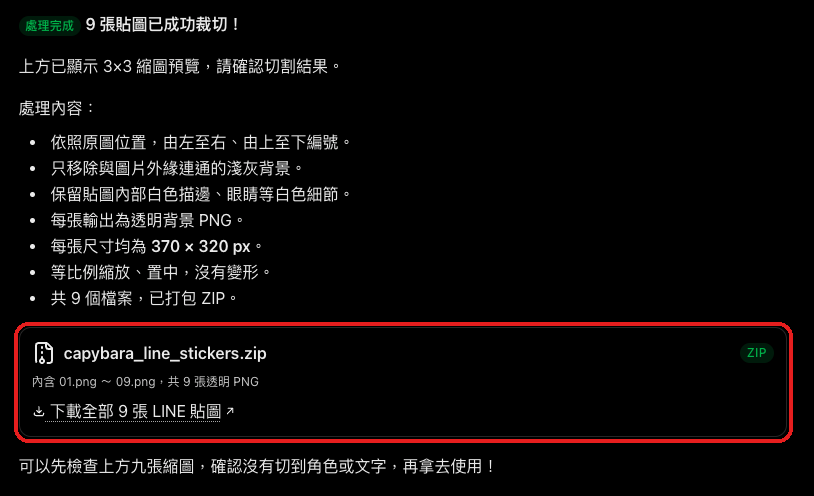
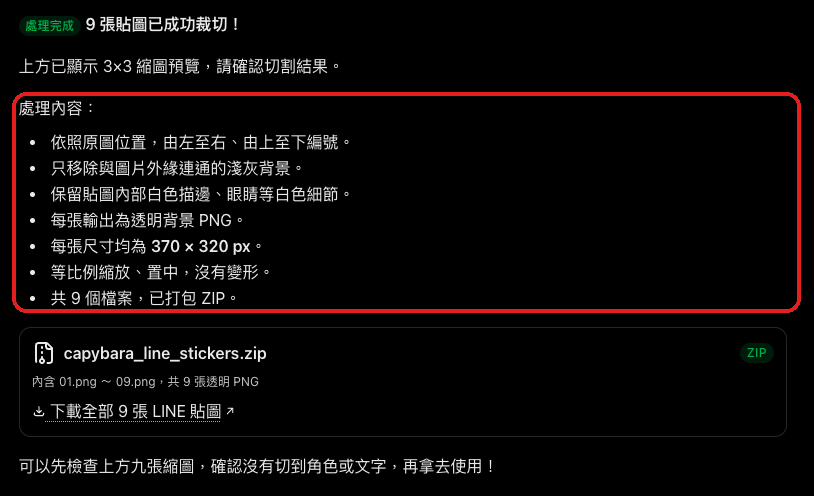
LINE 貼圖教學：切圖、封面不另外下載，最後一起打包
Claude-Session: https://claude.ai/code/session_01WPuEZpU3TKv6mWWbRWb4en

Changed region(s): [[0.0, 0.1815, 0.9828, 0.9073], [0.0, 0.6653, 0.0307, 0.877]]

diff --git a/content/posts/ai-tools/line-sticker-upload/index.md b/content/posts/ai-tools/line-sticker-upload/index.md
@@ -78,7 +78,7 @@ LINE 對貼圖有明確的規格要求，我整理成一張表，後面的提示
 
 ## 步驟二：請 ChatGPT 幫你切圖
 
-把九宮格大圖下載下來，開一個新對話上傳，貼上：
+把九宮格大圖下載下來，開一個新對話上傳，貼上。之後的切圖、做封面、打包都在這個對話裡完成，中間不用另外下載：
 
 ```text
 這張圖是 3 欄 × 3 列、共 9 張的 LINE 貼圖，背景是淺灰色。
@@ -89,15 +89,14 @@ LINE 對貼圖有明確的規格要求，我整理成一張表，後面的提示
    貼圖內部的白色（描邊、眼睛）要保留
 3. 每張等比例縮放、置中放到 370×320 的透明畫布上，四周至少留 10px，不要變形
 4. 存成 PNG，檔名從【01】開始依序編號（01.png、02.png……）
-5. 打包成一個 ZIP 給我下載
-6. 先給我看 9 張縮圖，讓我確認有沒有切壞
+5. 給我看 9 張縮圖，讓我確認有沒有切壞
 ```
 
-第二組大圖把【01】改成【10】，第三組改成【19】，以此類推，檔名就不會重複。
+第二組大圖上傳到同一個對話，把提示詞裡的【01】改成【10】；第三組改成【19】，以此類推，檔名就不會重複。
 
 如果 ChatGPT 重新畫了一張圖，而不是處理檔案，請補上這句：「不要畫圖，用 Python 處理我上傳的檔案。」
 
-![chatgpt-sticker-split-preview.png](chatgpt-sticker-split-preview.png "ChatGPT 切好後，會附上 ZIP 下載連結")
+![chatgpt-sticker-split-preview.png](chatgpt-sticker-split-preview.png "ChatGPT 回報切好的張數、尺寸和處理方式")
 
 如果裁切結果不理想，可以用以下提示詞修正：
 
@@ -113,20 +112,20 @@ LINE 對貼圖有明確的規格要求，我整理成一張表，後面的提示
 
 除了貼圖，LINE 還需要一張封面（main）和聊天室下方的小圖示（tab）。tab 尺寸很小，建議選擇臉部較大、文字較少的貼圖。
 
-把要用的兩張上傳到同一個對話，貼上：
+在同一個對話裡接著貼上，把【】換成你挑好的貼圖編號：
 
 ```text
 請用【03.png】做 main.png：等比例縮放後置中放到 240×240 的透明畫布，四周留 10px。
 再用【07.png】做 tab.png：等比例縮放後置中放到 96×74 的透明畫布，四周留 2px。
-不要變形，做好給我下載。
+不要變形。
 ```
 
-![chatgpt-sticker-main-tab.png](chatgpt-sticker-main-tab.png "ChatGPT 做好 main.png 和 tab.png，點檔名就能下載")
+![chatgpt-sticker-main-tab.png](chatgpt-sticker-main-tab.png "ChatGPT 做好 main.png 和 tab.png")
 
-main.png 和 tab.png 做好之後，直接在同一個對話請 ChatGPT 把全部檔案打包成一個 ZIP。貼圖如果是分好幾組切的，先把前面下載的 ZIP 都上傳到這個對話，再貼上：
+最後在同一個對話請 ChatGPT 把全部檔案打包成一個 ZIP，下載這一次就好：
 
 ```text
-請把剛剛做好的 main.png、tab.png，和我上傳的貼圖一起打包成一個 ZIP：
+請把剛剛切好的貼圖和 main.png、tab.png 一起打包成一個 ZIP 給我下載：
 
 1. 貼圖只要【01、02、04、05……】這幾張，依原本的順序重新編號成 01.png 開始
 2. ZIP 裡直接放檔案，不要再包一層資料夾
